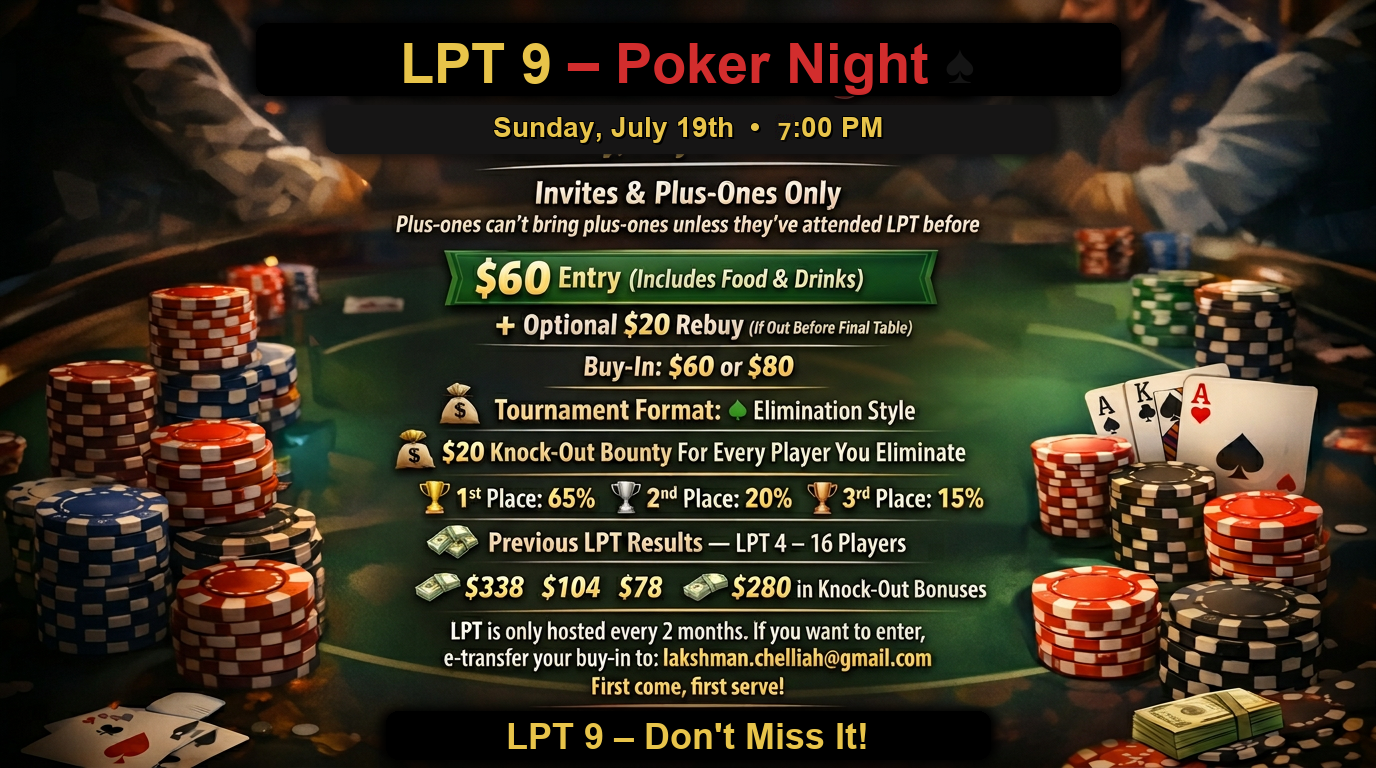
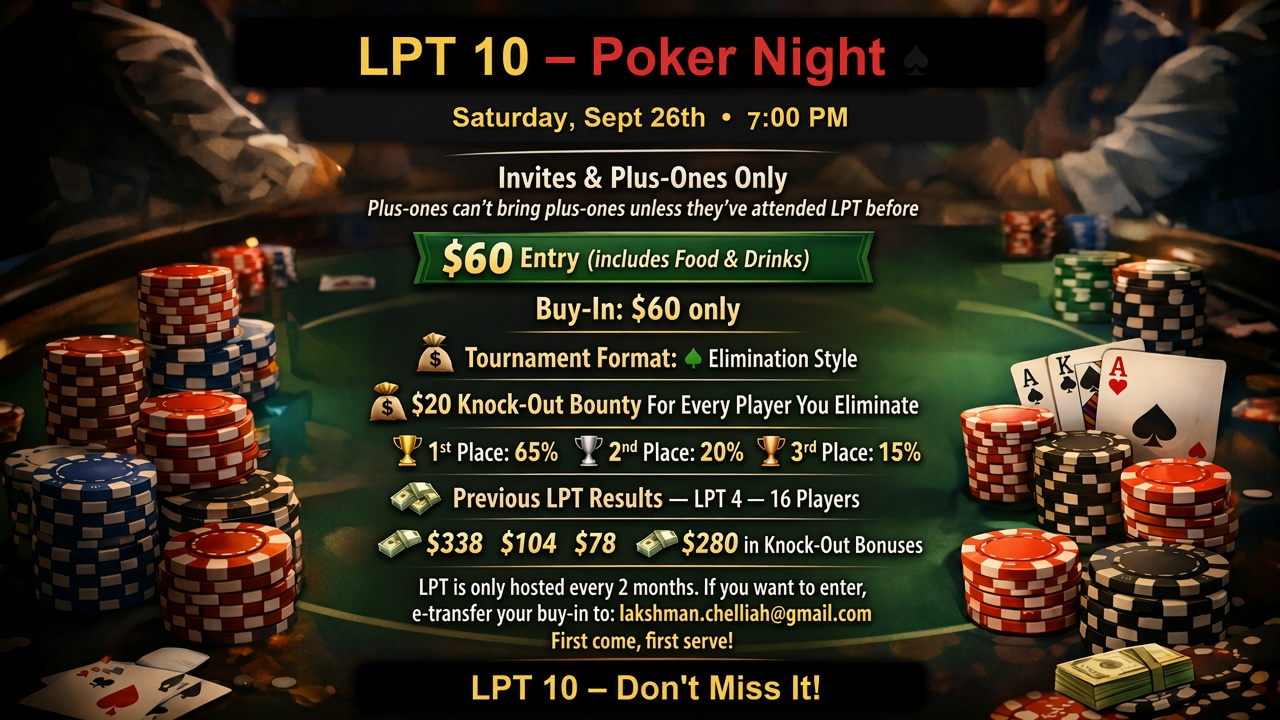
Set up LPT 10 for September 26 and drop the rebuy.
Registration now closes Friday night before the Saturday 7pm tournament, the flyer and emails say there is no rebuy, and the Apps Script writes to a new LPT10 sheet.

diff --git a/index.html b/index.html
@@ -4,11 +4,11 @@
   <meta charset="UTF-8" />
   <meta http-equiv="X-UA-Compatible" content="IE=edge" />
   <meta name="viewport" content="width=device-width, initial-scale=1.0" />
-  <title>LPT 9 - Registration</title>
+  <title>LPT 10 - Registration</title>
   <link rel="preconnect" href="https://fonts.googleapis.com" />
   <link rel="preconnect" href="https://fonts.gstatic.com" crossorigin />
   <link href="https://fonts.googleapis.com/css2?family=Bebas+Neue&family=Source+Sans+3:wght@400;500;600;700&display=swap" rel="stylesheet" />
-  <link rel="stylesheet" href="css/style.css?v=invitee2" />
+  <link rel="stylesheet" href="css/style.css?v=20260926-7pm" />
 
   <link rel="icon" type="image/png" sizes="32x32" href="assets/icons/favicon-32x32.png" />
   <link rel="icon" type="image/png" sizes="16x16" href="assets/icons/favicon-16x16.png" />
@@ -21,15 +21,15 @@
   <header class="hero">
     <div class="hero-content">
       <p class="hero-eyebrow" aria-hidden="true">♠ Private tournament</p>
-      <h1 id="event-name" class="hero-brand">LPT 9</h1>
-      <p id="event-description" class="hero-tagline">9th Ever Laksh Poker Tournament</p>
+      <h1 id="event-name" class="hero-brand">LPT 10</h1>
+      <p id="event-description" class="hero-tagline">10th Ever Laksh Poker Tournament</p>
     </div>
   </header>
 
   <div class="status-strip" role="status">
     <p id="event-date" class="status-item">
       <span class="status-label">Date</span>
-      <strong>Sunday July 19th 7:00pm</strong>
+      <strong>Saturday September 26th 7:00pm</strong>
     </p>
     <p id="spots-remaining" class="status-item">
       <span class="status-label">Spots left</span>
@@ -46,8 +46,7 @@
       <div class="panel-header">
         <h2 id="registration-heading">Register</h2>
         <p class="panel-intro">
-          Name, email, and fee are required; phone and referral are optional.
-          Choosing re-buy sets your fee to $80.
+          Name and email are required; phone and referral are optional.
         </p>
       </div>
 
@@ -67,12 +66,9 @@
           <input type="tel" id="phone" name="Phone" />
         </div>
 
-        <div class="form-group">
-          <label for="fee">Select your fee:</label>
-          <select id="fee" name="Fee" required>
-            <option value="60">$60 Registration</option>
-            <option value="80">$80 Registration + re-buy</option>
-          </select>
+        <div class="form-group" id="fee-group">
+          <p id="fee-notice" class="fee-notice">$60 registration. No rebuy this event.</p>
+          <input type="hidden" id="fee" name="Fee" value="60" />
         </div>
 
         <div class="form-group">
@@ -114,8 +110,8 @@
           <dt>Buy-in</dt>
           <dd>
             <span id="detail-entry">$60 entry (food &amp; drinks included)</span>
-            <span id="detail-rebuy" class="details-sub">Optional $20 rebuy if out before final table</span>
-            <span id="detail-buyin-summary" class="details-sub details-sub--strong">Total: $60 or $80</span>
+            <span id="detail-rebuy" class="details-sub details-sub--strong">No rebuy this event.</span>
+            <span id="detail-buyin-summary" class="details-sub details-sub--strong" hidden></span>
           </dd>
         </div>
 
@@ -151,7 +147,7 @@
       <details class="flyer-fold">
         <summary>View event flyer</summary>
         <figure class="about-image">
-          <img src="assets/images/about-image.png?v=20260719-7pm" alt="LPT 9 event flyer with date, buy-in, and prize details" />
+          <img src="assets/images/about-image.png?v=20260926-7pm" alt="LPT 10 event flyer for Saturday September 26th at 7:00pm, $60 entry, no rebuy" />
         </figure>
       </details>
     </section>
@@ -198,7 +194,7 @@
     </p>
   </footer>
 
-  <script src="js/config.js?v=20260719-7pm"></script>
-  <script src="js/script.js?v=20260719e"></script>
+  <script src="js/config.js?v=20260926-7pm"></script>
+  <script src="js/script.js?v=20260926-7pm"></script>
 </body>
 </html>

diff --git a/js/script.js b/js/script.js
@@ -2,14 +2,15 @@ const EVENT = window.EVENT_CONFIG || {};
 const SCRIPT_URL =
   EVENT.scriptUrl ||
   'https://script.google.com/macros/s/AKfycbzOMjf8VX2qoPcAaRX_dNjA1qrz47baiNDzeLAJlelRpxCdX2tpS6nsvlVLgSnPdgAk1A/exec';
-const REGISTRATION_DEADLINE = new Date(EVENT.registrationDeadline || '2026-07-18T23:59:00');
+const REGISTRATION_DEADLINE = new Date(EVENT.registrationDeadline || '2026-09-25T23:59:00');
 const MAX_SPOTS = EVENT.maxSpots || 20;
 
 document.addEventListener('DOMContentLoaded', () => {
   const countdownEl = document.getElementById('countdown');
   const form = document.getElementById('registration-form');
   const submitBtn = form.querySelector('button[type="submit"]');
-  const feeSelect = document.getElementById('fee');
+  const feeInput = document.getElementById('fee');
+  const feeNotice = document.getElementById('fee-notice');
 
   // -------- APPLY CONFIG TO UI --------
   if (EVENT.name) {
@@ -35,14 +36,10 @@ document.addEventListener('DOMContentLoaded', () => {
     if (payEmailEl) payEmailEl.innerText = EVENT.paymentEmail;
   }
 
-  if (Array.isArray(EVENT.fees) && feeSelect) {
-    feeSelect.innerHTML = '';
-    EVENT.fees.forEach(fee => {
-      const opt = document.createElement('option');
-      opt.value = String(fee.value);
-      opt.textContent = fee.label;
-      feeSelect.appendChild(opt);
-    });
+  if (Array.isArray(EVENT.fees) && EVENT.fees.length && feeInput) {
+    const fee = EVENT.fees[0];
+    feeInput.value = String(fee.value);
+    if (feeNotice) feeNotice.textContent = fee.notice || fee.label;
   }
 
   // -------- EVENT DETAILS (invitee info) --------
@@ -56,7 +53,15 @@ document.addEventListener('DOMContentLoaded', () => {
   setText('detail-invite-rule', details.inviteRule);
   setText('detail-entry', details.entry);
   setText('detail-rebuy', details.rebuy);
-  setText('detail-buyin-summary', details.buyinSummary);
+  const buyinSummaryEl = document.getElementById('detail-buyin-summary');
+  if (buyinSummaryEl) {
+    if (details.buyinSummary) {
+      buyinSummaryEl.textContent = details.buyinSummary;
+      buyinSummaryEl.hidden = false;
+    } else {
+      buyinSummaryEl.hidden = true;
+    }
+  }
   setText('detail-format', details.format);
   setText('detail-bounty', details.bounty);
   setText('detail-social-proof', details.socialProof);
@@ -169,11 +174,9 @@ document.addEventListener('DOMContentLoaded', () => {
       if (feeConfig && typeof feeConfig.amount === 'number') {
         amount = feeConfig.amount;
       }
-    } else if (fee === '80') {
-      amount = 80;
     }
 
-    const referencePrefix = EVENT.referencePrefix || 'LPT 9';
+    const referencePrefix = EVENT.referencePrefix || 'LPT 10';
     const reference = `${referencePrefix} - ${name}`;
 
     const payload = new URLSearchParams({
@@ -219,7 +222,7 @@ document.addEventListener('DOMContentLoaded', () => {
           : 'Registration failed (HTTP ' + postRes.status + ').';
       alert(
         errMsg +
-          '\n\nTypical fixes: Deploy the Apps Script as a Web app (Execute as: you, Who has access: Anyone), then Manage deployments → edit → New version. Ensure the sheet tab name matches Code.gs (e.g. LPT9) and initialSetup() was run on that spreadsheet.'
+          '\n\nTypical fixes: Deploy the Apps Script as a Web app (Execute as: you, Who has access: Anyone), then Manage deployments → edit → New version. Ensure the sheet tab name matches Code.gs (e.g. LPT10) and initialSetup() was run on that spreadsheet.'
       );
       return;
     }

diff --git a/js/config.js b/js/config.js
@@ -1,29 +1,33 @@
 window.EVENT_CONFIG = {
-  name: 'LPT 9',
-  editionLabel: '9th Ever Laksh Poker Tournament',
-  dateDisplay: 'Sunday July 19th 7:00pm',
+  name: 'LPT 10',
+  editionLabel: '10th Ever Laksh Poker Tournament',
+  dateDisplay: 'Saturday September 26th 7:00pm',
 
   // Registration settings
-  registrationDeadline: '2026-07-18T23:59:00', // Local time: July 18, 2026 11:59 PM
+  registrationDeadline: '2026-09-25T23:59:00', // Local time: September 25, 2026 11:59 PM
   maxSpots: 20,
 
-  // Fee options shown in the select dropdown
+  // Single buy-in. There is no rebuy for this event.
   fees: [
-    { value: '60', label: '$60 Registration', amount: 60 },
-    { value: '80', label: '$80 Registration + re-buy', amount: 80 }
+    {
+      value: '60',
+      label: '$60 Registration',
+      amount: 60,
+      notice: '$60 registration. No rebuy this event.'
+    }
   ],
 
   // Payment details
   paymentEmail: 'lakshman.chelliah@gmail.com',
-  referencePrefix: 'LPT 9',
+  referencePrefix: 'LPT 10',
 
   // Invitee-facing event info (rendered into #event-details)
   eventDetails: {
     inviteTitle: 'Invites & Plus-Ones Only',
     inviteRule: "Plus-ones can’t bring plus-ones unless they’ve attended LPT before.",
     entry: '$60 entry (food & drinks included)',
-    rebuy: 'Optional $20 rebuy if out before final table',
-    buyinSummary: 'Total: $60 or $80',
+    rebuy: 'No rebuy this event.',
+    buyinSummary: '',
     format: 'Elimination style',
     bounty: '$20 knock-out for every player you eliminate',
     payouts: [

diff --git a/css/style.css b/css/style.css
@@ -1,4 +1,4 @@
-/* ===== Private Felt Club - LPT 9 ===== */
+/* ===== Private Felt Club - LPT 10 ===== */
 :root {
   --felt-deep: #061a14;
   --felt: #0b3d2e;
@@ -368,6 +368,16 @@ main {
   margin-top: 6px;
   color: var(--ink-muted);
   font-size: 0.85rem;
+}
+
+.fee-notice {
+  margin: 0;
+  padding: 12px 14px;
+  border: 1px solid rgba(212, 175, 55, 0.45);
+  border-radius: var(--radius);
+  background: rgba(212, 175, 55, 0.1);
+  color: var(--gold-bright);
+  font-weight: 600;
 }
 
 .loading-text {

diff --git a/README.md b/README.md
@@ -25,9 +25,7 @@ A lightweight, serverless web application for managing poker tournament registra
 ## Features
 
 - Online registration form (Name, Email, Phone)
-- Two buy-in options:
-  - $60 Registration
-  - $80 Registration + Rebuy
+- $60 registration (no rebuy this event)
 - Optional referral field for discounts (manually reviewed)
 - Immediate payment instruction screen after registration
 - Countdown timer until registration closes
